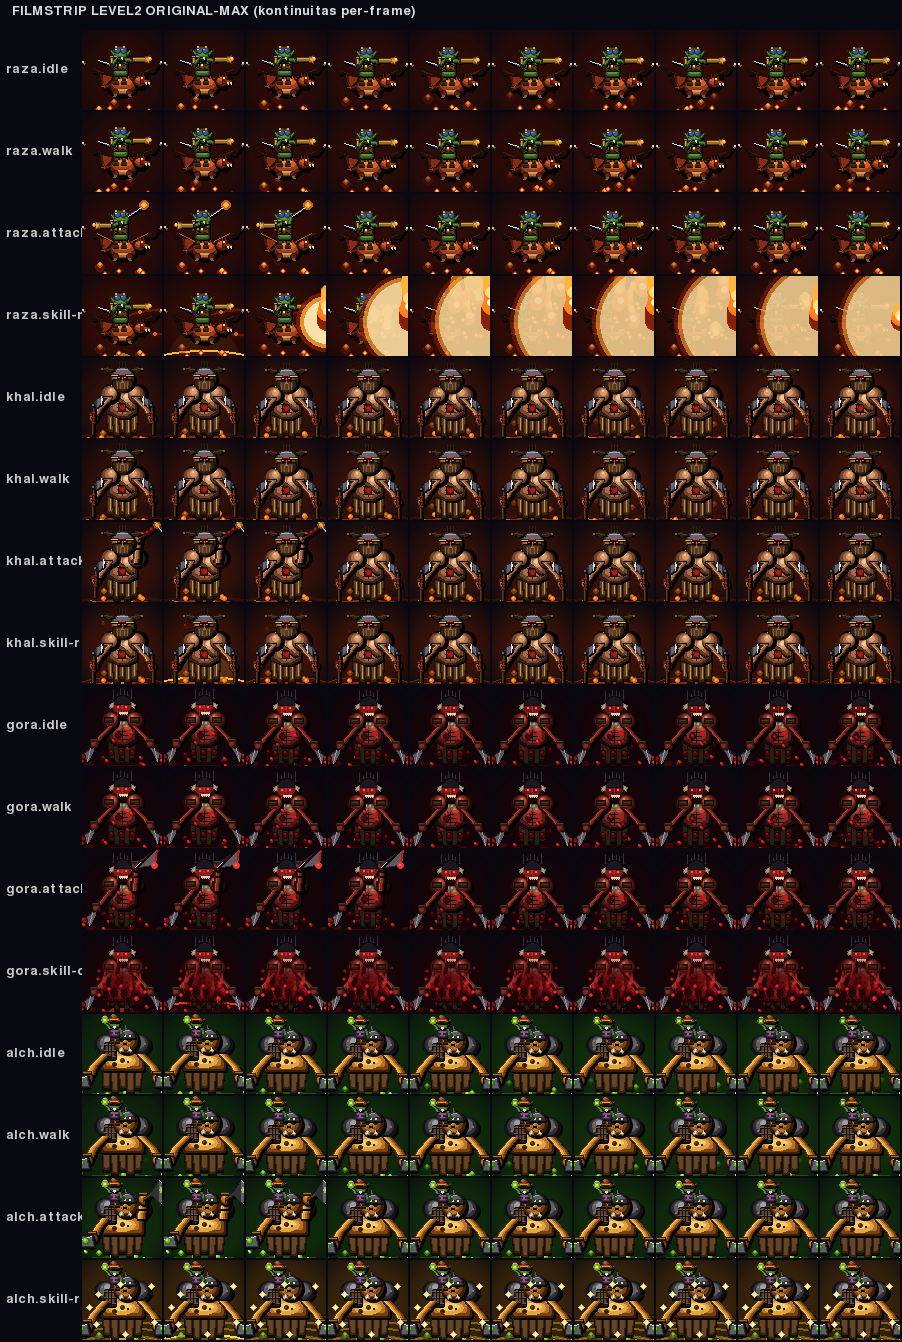
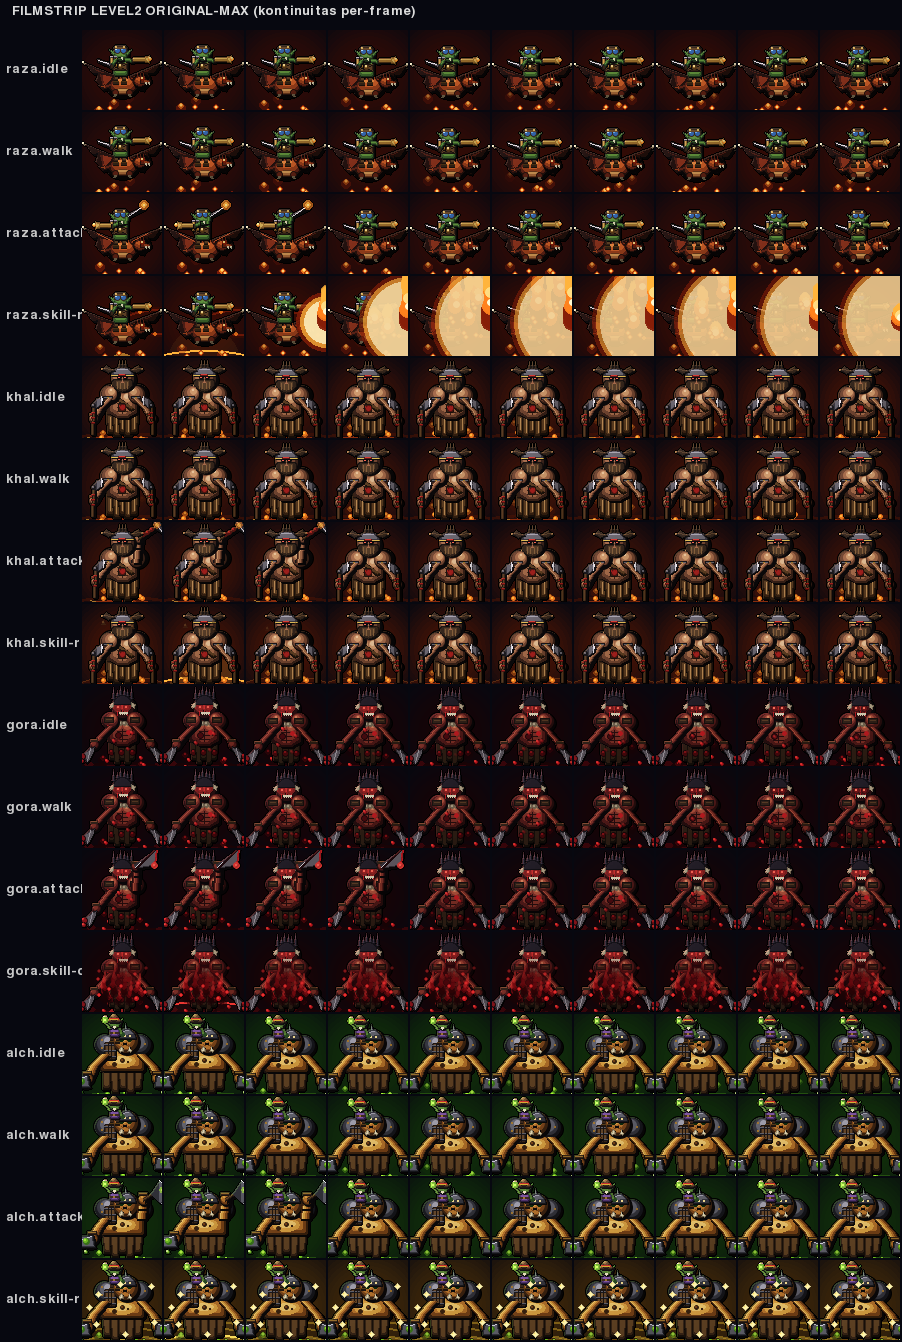
bosses/level2: pass pencahayaan + outline siluet (konvensi level1)
- tiap boss: badan dirender ke buffer tetap, di-crop rapat, diberi outline
  siluet gelap 1 px (edge 4 arah) + pass cahaya murah (rim/shade) via
  lighting.apply_to_rig, lalu di-blit ke posisi dunia yang sama.
- posisi badan & identitas seni tidak berubah (buffer hanya menampung
  pose); outline membuat tiap bagian terbaca saat unit bertumpuk.
- cache badan per namespace (lazy, tidak dialokasi ulang tiap frame);
  perf idle tetap < 2.2 ms (razak 0.96 / khalros 1.23 / gorath 1.31 /
  alchemist 1.40 ms).
- test_level2_masterwork: tambah test outline+pass cahaya; sheet
  before/after & filmstrip diperbarui.

diff --git a/bosses/level2.py b/bosses/level2.py
@@ -21,6 +21,11 @@ Entry point publik ada di bagian paling bawah file.
 import math
 import pygame
 
+try:                     # pass cahaya bersama; opsional supaya file boss
+    import lighting as _lighting          # tetap bisa di-load sendiri
+except Exception:        # pragma: no cover
+    _lighting = None
+
 # Penanda: file ini berisi BANYAK boss (1 true + 3 mini).
 # Dipakai heroes/__init__.py agar tidak menebak fungsi draw_*
 # secara longgar, yang bisa mengembalikan boss yang salah.
@@ -48,6 +53,7 @@ class _NS_razak:
     _flame_cache = {}
     _flash_buf = None
     _record_shadow = None
+    _body_buf = None        # buffer badan untuk outline+lighting
 
     # ---------------------------------------------------------------------------
     # HD Palette - Fire orange / green goblin / red bat mount
@@ -663,12 +669,12 @@ class _NS_razak:
         _NS_razak._draw_shadow(surface, x, y + 52)
         _NS_razak._draw_fire_wisps(surface, x, y + 38, phase, intense=True)
 
-        # Motion blur behind
+        # Motion blur behind (afterimage langsung, tanpa outline/lighting)
         for i in range(4):
             offset = (i + 1) * 8 * -boss.direction
             alpha = int(150 - i * 30)
             temp = pygame.Surface((160, 160), pygame.SRCALPHA)
-            _NS_razak._draw_razak_full(temp, 80, 80, boss.direction, phase, "dash")
+            _NS_razak._draw_razak_full_raw(temp, 80, 80, boss.direction, phase, "dash")
             temp.set_alpha(alpha)
             surface.blit(temp, (x + offset - 80, y + bob - 80))
 
@@ -678,8 +684,8 @@ class _NS_razak:
     # ===================================================================
     # FULL COMPOSITE
     # ===================================================================
-    def _draw_razak_full(surface, cx, cy, facing, phase, action, attack_progress=0):
-        """Draw bat mount + goblin rider."""
+    def _draw_razak_full_raw(surface, cx, cy, facing, phase, action, attack_progress=0):
+        """Draw bat mount + goblin rider (langsung, tanpa outline/lighting)."""
         # Wings behind body first
         _NS_razak._draw_bat_wings(surface, cx, cy, facing, phase, action)
 
@@ -696,6 +702,40 @@ class _NS_razak:
         # Front wings overlay (bring wings forward if attack)
         if action == "attack":
             _NS_razak._draw_bat_wings_front(surface, cx, cy, facing, phase)
+
+
+    def _draw_razak_full(surface, cx, cy, facing, phase, action, attack_progress=0):
+        """Komposit ORIGINAL-MAX: badan dirender ke buffer tetap, di-crop
+        rapat, diberi outline siluet gelap 1 px + pass pencahayaan murah
+        (rim/shade), lalu di-blit ke posisi dunia yang sama. Seni per
+        bagian tidak diubah - buffer hanya menampung hasil pose."""
+        NS = _NS_razak
+        B = 200
+        if NS._body_buf is None:
+            NS._body_buf = pygame.Surface((B, B), pygame.SRCALPHA)
+        buf = NS._body_buf
+        buf.fill((0, 0, 0, 0))
+        NS._draw_razak_full_raw(buf, B // 2, B // 2, facing, phase, action,
+                                attack_progress)
+        used = buf.get_bounding_rect(min_alpha=1)
+        if used.width <= 2 or used.height <= 2:
+            return
+        used.inflate_ip(4, 4)
+        used.clamp_ip(buf.get_rect())
+        sub = buf.subsurface(used).copy()
+        # Blit origin: titik jangkar badan di buffer (B//2,B//2) harus
+        # jatuh di posisi dunia (cx,cy) -> ox = cx - (B//2) + used.left.
+        ox = int(cx) - (B // 2) + used.left
+        oy = int(cy) - (B // 2) + used.top
+        # Outline siluet (konvensi level1: edge gelap 1 px, 4 arah)
+        edge = sub.copy()
+        edge.fill((0, 0, 0, 255), special_flags=pygame.BLEND_RGBA_MULT)
+        for ddx, ddy in ((-1, 0), (1, 0), (0, -1), (0, 1)):
+            surface.blit(edge, (ox + ddx, oy + ddy))
+        # Pass pencahayaan (rim kiri-atas + shade terminator) pada crop rapat
+        if _lighting is not None:
+            _lighting.apply_to_rig(sub, rim_add=(34, 26, 22), shade_mul=168)
+        surface.blit(sub, (ox, oy))
 
 
     def _draw_bat_wings(surface, cx, cy, facing, phase, action):
@@ -1726,6 +1766,7 @@ class _NS_khalros:
     _shadow_cache = None
     _aura_cache = None
     _flash_buf = None
+    _body_buf = None        # buffer badan untuk outline+lighting
     _record_shadow = None
 
     # ---------------------------------------------------------------------------
@@ -2331,7 +2372,7 @@ class _NS_khalros:
     # ===================================================================
     # BODY RENDERING
     # ===================================================================
-    def _draw_khalros_body(surface, cx, cy, facing, phase, action, attack_progress=0):
+    def _draw_khalros_body_raw(surface, cx, cy, facing, phase, action, attack_progress=0):
         sway = int(math.sin(phase * 0.6) * (2 if action != "idle" else 1))
 
         _NS_khalros._draw_loincloth(surface, cx, cy + 8, phase, sway)
@@ -2344,6 +2385,32 @@ class _NS_khalros:
             _NS_khalros._draw_idle_arms(surface, cx, cy - 8, facing, phase)
 
         _NS_khalros._draw_khalros_head(surface, cx, cy - 26, facing, phase)
+
+    def _draw_khalros_body(surface, cx, cy, facing, phase, action, attack_progress=0):
+        """Komposit ORIGINAL-MAX: badan -> buffer tetap -> outline siluet
+        gelap 1 px + pass pencahayaan (rim/shade) -> blit posisi dunia sama."""
+        NS = _NS_khalros
+        B = 200
+        if NS._body_buf is None:
+            NS._body_buf = pygame.Surface((B, B), pygame.SRCALPHA)
+        buf = NS._body_buf
+        buf.fill((0, 0, 0, 0))
+        NS._draw_khalros_body_raw(buf, B // 2, B // 2, facing, phase, action, attack_progress)
+        used = buf.get_bounding_rect(min_alpha=1)
+        if used.width <= 2 or used.height <= 2:
+            return
+        used.inflate_ip(4, 4)
+        used.clamp_ip(buf.get_rect())
+        sub = buf.subsurface(used).copy()
+        ox = int(cx) - (B // 2) + used.left
+        oy = int(cy) - (B // 2) + used.top
+        edge = sub.copy()
+        edge.fill((0, 0, 0, 255), special_flags=pygame.BLEND_RGBA_MULT)
+        for ddx, ddy in ((-1, 0), (1, 0), (0, -1), (0, 1)):
+            surface.blit(edge, (ox + ddx, oy + ddy))
+        if _lighting is not None:
+            _lighting.apply_to_rig(sub, rim_add=(40, 28, 16), shade_mul=168)
+        surface.blit(sub, (ox, oy))
 
 
     def _draw_loincloth(surface, cx, cy, phase, sway):
@@ -3451,6 +3518,7 @@ class _NS_gorath:
     _shadow_cache = None
     _aura_cache = None
     _flash_buf = None
+    _body_buf = None        # buffer badan untuk outline+lighting
     _record_shadow = None
 
     # ---------------------------------------------------------------------------
@@ -3907,7 +3975,7 @@ class _NS_gorath:
     # ===================================================================
     # BODY RENDERING
     # ===================================================================
-    def _draw_gorath_body(surface, cx, cy, facing, phase, action, attack_progress=0):
+    def _draw_gorath_body_raw(surface, cx, cy, facing, phase, action, attack_progress=0):
         sway = int(math.sin(phase * 0.6) * (2 if action != "idle" else 1))
 
         # Lower floating body (loincloth / robe)
@@ -3930,6 +3998,32 @@ class _NS_gorath:
 
         # Blood dripping from body
         _NS_gorath._draw_body_blood_drips(surface, cx, cy, phase)
+
+    def _draw_gorath_body(surface, cx, cy, facing, phase, action, attack_progress=0):
+        """Komposit ORIGINAL-MAX: badan -> buffer tetap -> outline siluet
+        gelap 1 px + pass pencahayaan (rim/shade) -> blit posisi dunia sama."""
+        NS = _NS_gorath
+        B = 200
+        if NS._body_buf is None:
+            NS._body_buf = pygame.Surface((B, B), pygame.SRCALPHA)
+        buf = NS._body_buf
+        buf.fill((0, 0, 0, 0))
+        NS._draw_gorath_body_raw(buf, B // 2, B // 2, facing, phase, action, attack_progress)
+        used = buf.get_bounding_rect(min_alpha=1)
+        if used.width <= 2 or used.height <= 2:
+            return
+        used.inflate_ip(4, 4)
+        used.clamp_ip(buf.get_rect())
+        sub = buf.subsurface(used).copy()
+        ox = int(cx) - (B // 2) + used.left
+        oy = int(cy) - (B // 2) + used.top
+        edge = sub.copy()
+        edge.fill((0, 0, 0, 255), special_flags=pygame.BLEND_RGBA_MULT)
+        for ddx, ddy in ((-1, 0), (1, 0), (0, -1), (0, 1)):
+            surface.blit(edge, (ox + ddx, oy + ddy))
+        if _lighting is not None:
+            _lighting.apply_to_rig(sub, rim_add=(46, 18, 16), shade_mul=168)
+        surface.blit(sub, (ox, oy))
 
 
     def _draw_loincloth(surface, cx, cy, phase, sway):
@@ -4884,6 +4978,7 @@ class _NS_alchemist:
     _shadow_cache = None
     _aura_cache = {}        # key: "acid"/"gold"
     _flash_buf = None
+    _body_buf = None        # buffer badan untuk outline+lighting
     _record_shadow = None
 
     # ---------------------------------------------------------------------------
@@ -5530,7 +5625,7 @@ class _NS_alchemist:
     # ===================================================================
     # FULL COMPOSITE - Ogre + Goblin rider
     # ===================================================================
-    def _draw_alch_full(surface, cx, cy, facing, phase, action, attack_progress=0):
+    def _draw_alch_full_raw(surface, cx, cy, facing, phase, action, attack_progress=0):
         # Rage buff pulse
         is_rage = action == "rage" or False
 
@@ -5555,6 +5650,32 @@ class _NS_alchemist:
         # Goblin rider on ogre's shoulder (behind ogre head, above shoulder)
         _NS_alchemist._draw_goblin_rider(surface, cx - 8 * facing, cy - 30, facing, phase, action,
                            attack_progress)
+
+    def _draw_alch_full(surface, cx, cy, facing, phase, action, attack_progress=0):
+        """Komposit ORIGINAL-MAX: badan -> buffer tetap -> outline siluet
+        gelap 1 px + pass pencahayaan (rim/shade) -> blit posisi dunia sama."""
+        NS = _NS_alchemist
+        B = 200
+        if NS._body_buf is None:
+            NS._body_buf = pygame.Surface((B, B), pygame.SRCALPHA)
+        buf = NS._body_buf
+        buf.fill((0, 0, 0, 0))
+        NS._draw_alch_full_raw(buf, B // 2, B // 2, facing, phase, action, attack_progress)
+        used = buf.get_bounding_rect(min_alpha=1)
+        if used.width <= 2 or used.height <= 2:
+            return
+        used.inflate_ip(4, 4)
+        used.clamp_ip(buf.get_rect())
+        sub = buf.subsurface(used).copy()
+        ox = int(cx) - (B // 2) + used.left
+        oy = int(cy) - (B // 2) + used.top
+        edge = sub.copy()
+        edge.fill((0, 0, 0, 255), special_flags=pygame.BLEND_RGBA_MULT)
+        for ddx, ddy in ((-1, 0), (1, 0), (0, -1), (0, 1)):
+            surface.blit(edge, (ox + ddx, oy + ddy))
+        if _lighting is not None:
+            _lighting.apply_to_rig(sub, rim_add=(26, 40, 14), shade_mul=168)
+        surface.blit(sub, (ox, oy))
 
 
     def _draw_ogre_lower(surface, cx, cy, phase):

diff --git a/tools/test_level2_masterwork.py b/tools/test_level2_masterwork.py
@@ -267,6 +267,36 @@ def test_animation_continuous_and_fast():
     print(f"PASS animasi kontinu + {dt:.2f} ms/frame (true boss)")
 
 
+def test_outline_and_lighting_present():
+    """Konvensi level1: tiap boss punya outline siluet gelap + pass cahaya
+    (rim/shade) lewat komposit badan -> buffer -> outline -> lighting."""
+    import lighting as _lighting_mod
+    body_raw = {"razak": "_draw_razak_full", "khalros": "_draw_khalros_body",
+                "gorath": "_draw_gorath_body", "alchemist": "_draw_alch_full"}
+    for name, klass, fn, NS, cd in BOSSES:
+        bodyfn = body_raw[name]
+        # 1) komposit ter-wire: ada varian _raw & cache buffer
+        assert hasattr(NS, bodyfn + "_raw"), f"{name} tanpa renderer _raw"
+        assert hasattr(NS, "_body_buf"), f"{name} tanpa cache badan"
+        # 2) badan yang di-komposit punya piksel outline-hitam (siluet),
+        #    lebih banyak daripada renderer _raw (tanpa outline).
+        raw = pygame.Surface((220, 220), pygame.SRCALPHA)
+        getattr(NS, bodyfn + "_raw")(raw, 110, 110, 1, 1.0, "idle")
+        comp = pygame.Surface((220, 220), pygame.SRCALPHA)
+        getattr(NS, bodyfn)(comp, 110, 110, 1, 1.0, "idle")
+
+        def black_count(surf):
+            return sum(1 for yy in range(0, 220, 2) for xx in range(0, 220, 2)
+                       if surf.get_at((xx, yy))[:3] == (0, 0, 0)
+                       and surf.get_at((xx, yy))[3] > 50)
+        assert black_count(comp) > black_count(raw) + 20, \
+            f"{name}: outline siluet tidak terlihat " \
+            f"({black_count(raw)}->{black_count(comp)})"
+    # 3) modul lighting diimpor (pass cahaya aktif)
+    assert _lighting_mod is not None
+    print("PASS outline siluet + pass cahaya (konvensi level1)")
+
+
 def test_procedural_only():
     src = inspect.getsource(L)
     assert "pygame.image.load" not in src
@@ -280,5 +310,6 @@ if __name__ == "__main__":
     test_durations_match_ai()
     test_shockwave_activation()
     test_animation_continuous_and_fast()
+    test_outline_and_lighting_present()
     test_procedural_only()
     print("ALL LEVEL2 ORIGINAL-MAX TESTS PASSED")
